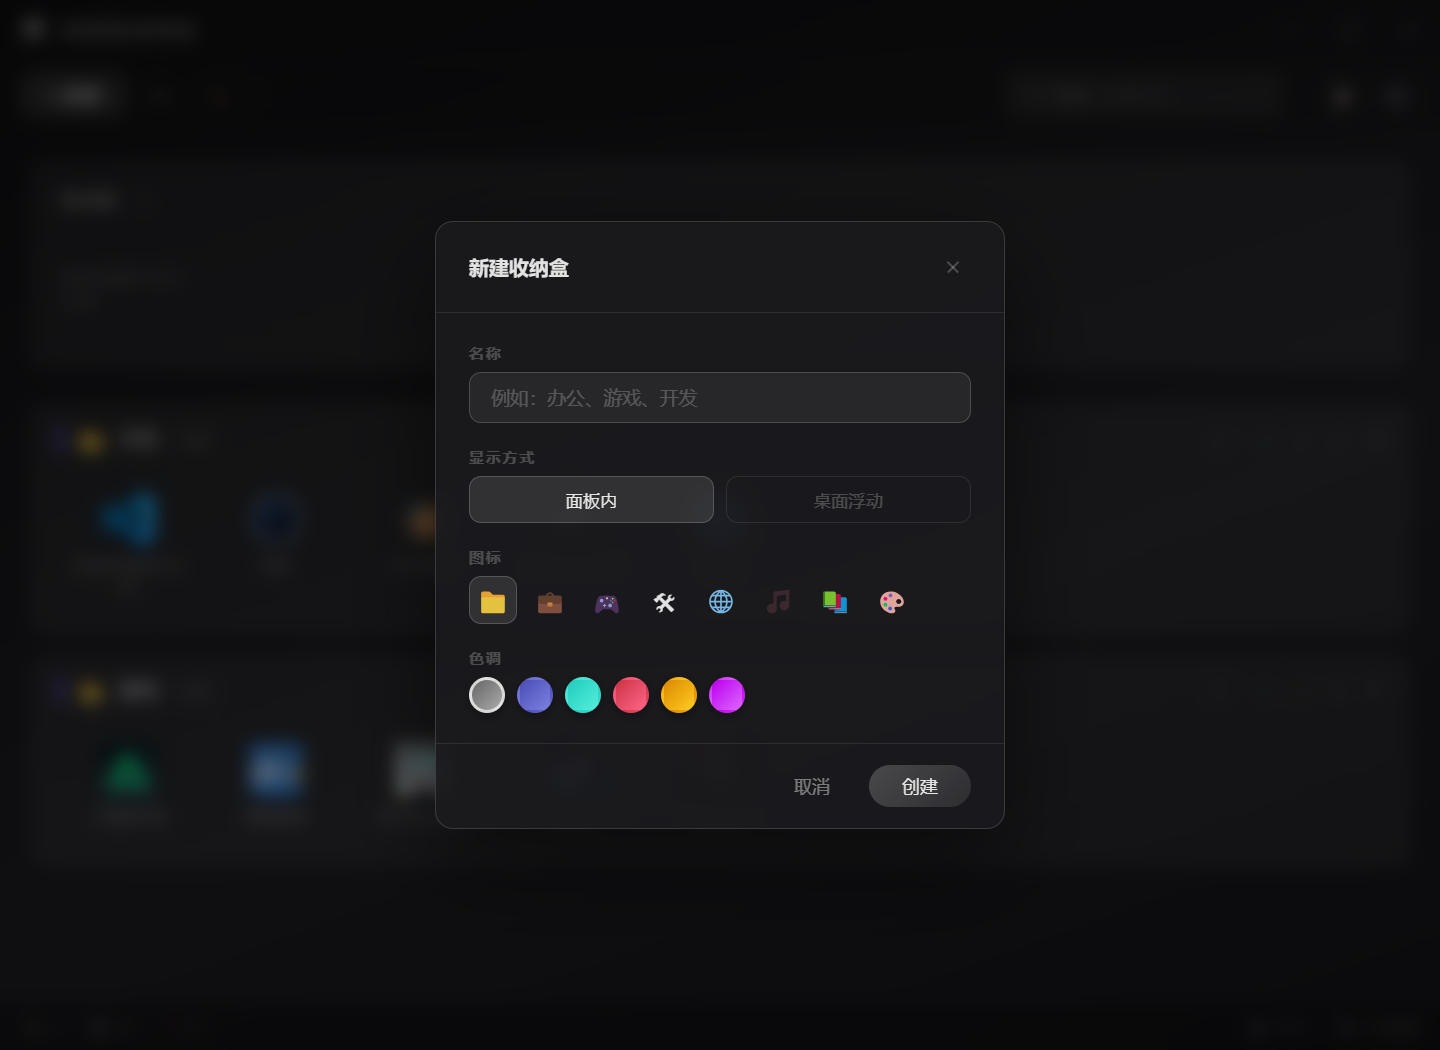
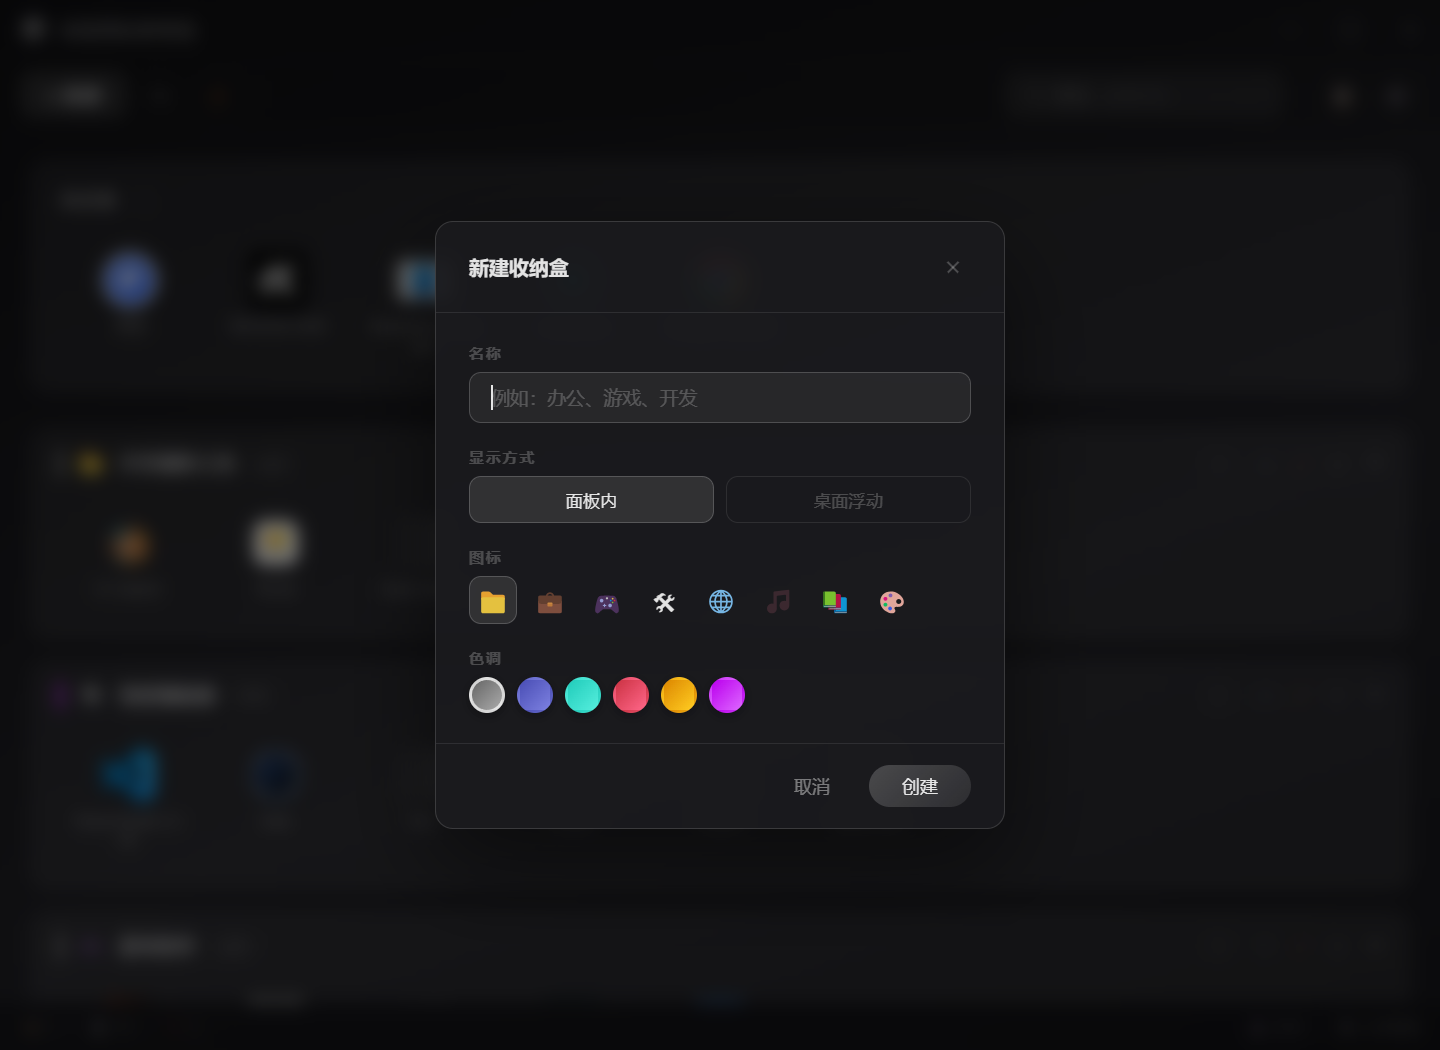
docs: update screenshots and version badges to v1.1.0

diff --git a/README.md b/README.md
@@ -17,7 +17,7 @@
   <img src="https://img.shields.io/badge/platform-Windows%2010%2F11-blue?logo=windows" alt="Platform">
   <img src="https://img.shields.io/badge/electron-28.3.3-purple?logo=electron" alt="Electron">
   <img src="https://img.shields.io/badge/license-MIT-green" alt="License">
-  <img src="https://img.shields.io/badge/version-1.0.0-orange" alt="Version">
+  <img src="https://img.shields.io/badge/version-1.1.0-orange" alt="Version">
 </p>
 
 ---

diff --git a/README_CN.md b/README_CN.md
@@ -17,7 +17,7 @@
   <img src="https://img.shields.io/badge/platform-Windows%2010%2F11-blue?logo=windows" alt="Platform">
   <img src="https://img.shields.io/badge/electron-28.3.3-purple?logo=electron" alt="Electron">
   <img src="https://img.shields.io/badge/license-MIT-green" alt="License">
-  <img src="https://img.shields.io/badge/version-1.0.0-orange" alt="Version">
+  <img src="https://img.shields.io/badge/version-1.1.0-orange" alt="Version">
 </p>
 
 ---